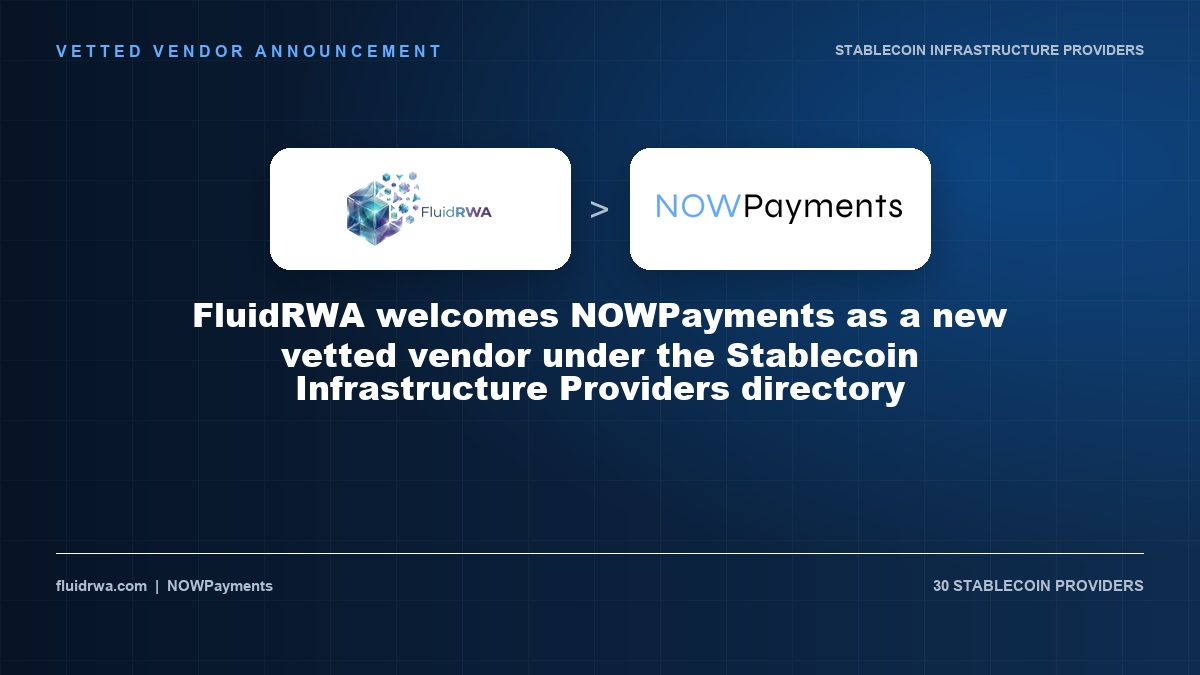
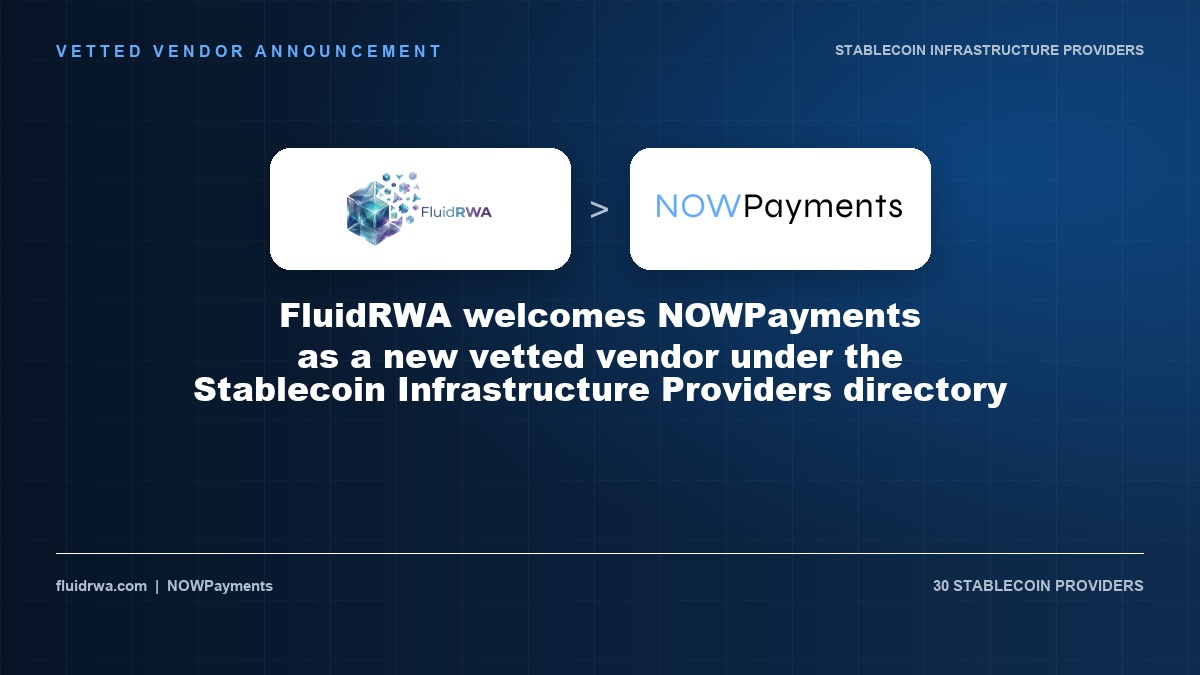
Align NOWPayments announcement heading

Changed region(s): [[0.1542, 0.4356, 0.8633, 0.6222]]

diff --git a/scripts/create-nowpayments-announcement-images.py b/scripts/create-nowpayments-announcement-images.py
@@ -113,8 +113,19 @@ def create(size, filename):
     bridge = font("Arial.ttf", int(w * 0.03))
     draw.text((w * 0.5, logo_y), ">", font=bridge, fill=muted, anchor="mm")
 
-    headline = "FluidRWA welcomes NOWPayments as a new vetted vendor under the Stablecoin Infrastructure Providers directory"
-    draw_centered_wrapped(draw, headline, h * 0.43, title_face, "white", w * 0.72, int(h * 0.014))
+    headline_lines = [
+        "FluidRWA welcomes NOWPayments",
+        "as a new vetted vendor under the",
+        "Stablecoin Infrastructure Providers directory",
+    ]
+    headline_y = h * 0.43
+    headline_gap = h * 0.014
+    for line in headline_lines:
+        box = draw.textbbox((0, 0), line, font=title_face)
+        line_width = box[2] - box[0]
+        line_height = box[3] - box[1]
+        draw.text(((w - line_width) / 2, headline_y), line, font=title_face, fill="white")
+        headline_y += line_height + headline_gap
 
     draw.line((w * 0.047, h * 0.82, w * 0.953, h * 0.82), fill=(255, 255, 255, 45), width=1)
     draw.text((w * 0.047, h * 0.855), "fluidrwa.com  |  NOWPayments", font=footer, fill=muted)
